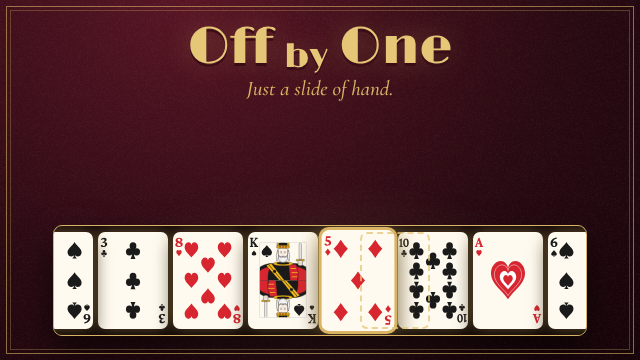
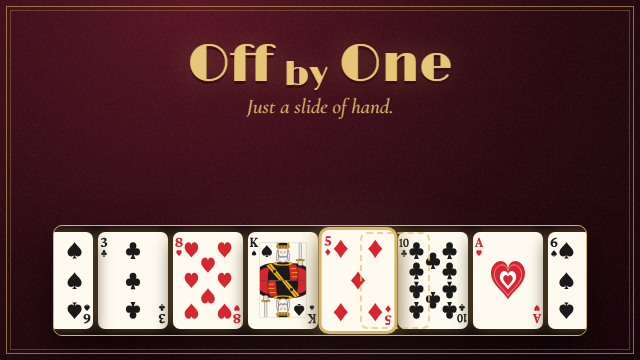
.

Changed region(s): [[0.2812, 0.0611, 0.7188, 0.3361]]

diff --git a/scripts/cover.html b/scripts/cover.html
@@ -124,8 +124,9 @@
 		color: #d8b464;
 	}
 
+	/* centred between the gold frame and itch's Run Game button, which covers about 155 to 205 */
 	.embed .titles {
-		top: 22px;
+		top: 40px;
 		gap: 2px;
 	}
 

diff --git a/CLAUDE.md b/CLAUDE.md
@@ -162,6 +162,13 @@ starts, and zips the result as `build-itch/bitch.zip`, with `index.html` at the 
 `itch/wide-cover.gif` (Chrome over the DevTools protocol, and ffmpeg; `CHROME` and `CHROME_FLAGS` if Chrome isn't in its
 usual place on Windows). Each GIF is about 1 MB, under itch's 3 MB.
 
+`node scripts/render-screenshots.mjs`, after Dark Matter's, writes six screenshots of the real game to `itch/screenshots/`
+(900 × 1600) with the dev server running: 1-play (Challenge mid-drag, the answer's lane short of home), 2-act (the Act 1
+panel), 3-win, 4-home, 5-practice (5×5, Clashes on) and 6-final-curtain (reached act 2: the rest of act 1 and a trick of
+act 2 solved, then three wrong shifts; "reached act 1" didn't look good, the designer's call). It drags with the mouse,
+reading each answer from the store, and takes a lane by the card at the end the move leaves from, since Chrome drops mouse
+events past the window's edge. The puzzles are random: look at the results, and run it again for others.
+
 - `scripts/cover.html`: the felt caught mid-trick. A row is half a card from home, the card leaving at the right coming
   round at the left, the card it was taken by lifted with its gold ring over the dashed frame of where it started, as
   the board draws a move. The 3-row board is valid once the row is home, so the picture plays fair: change the cards
